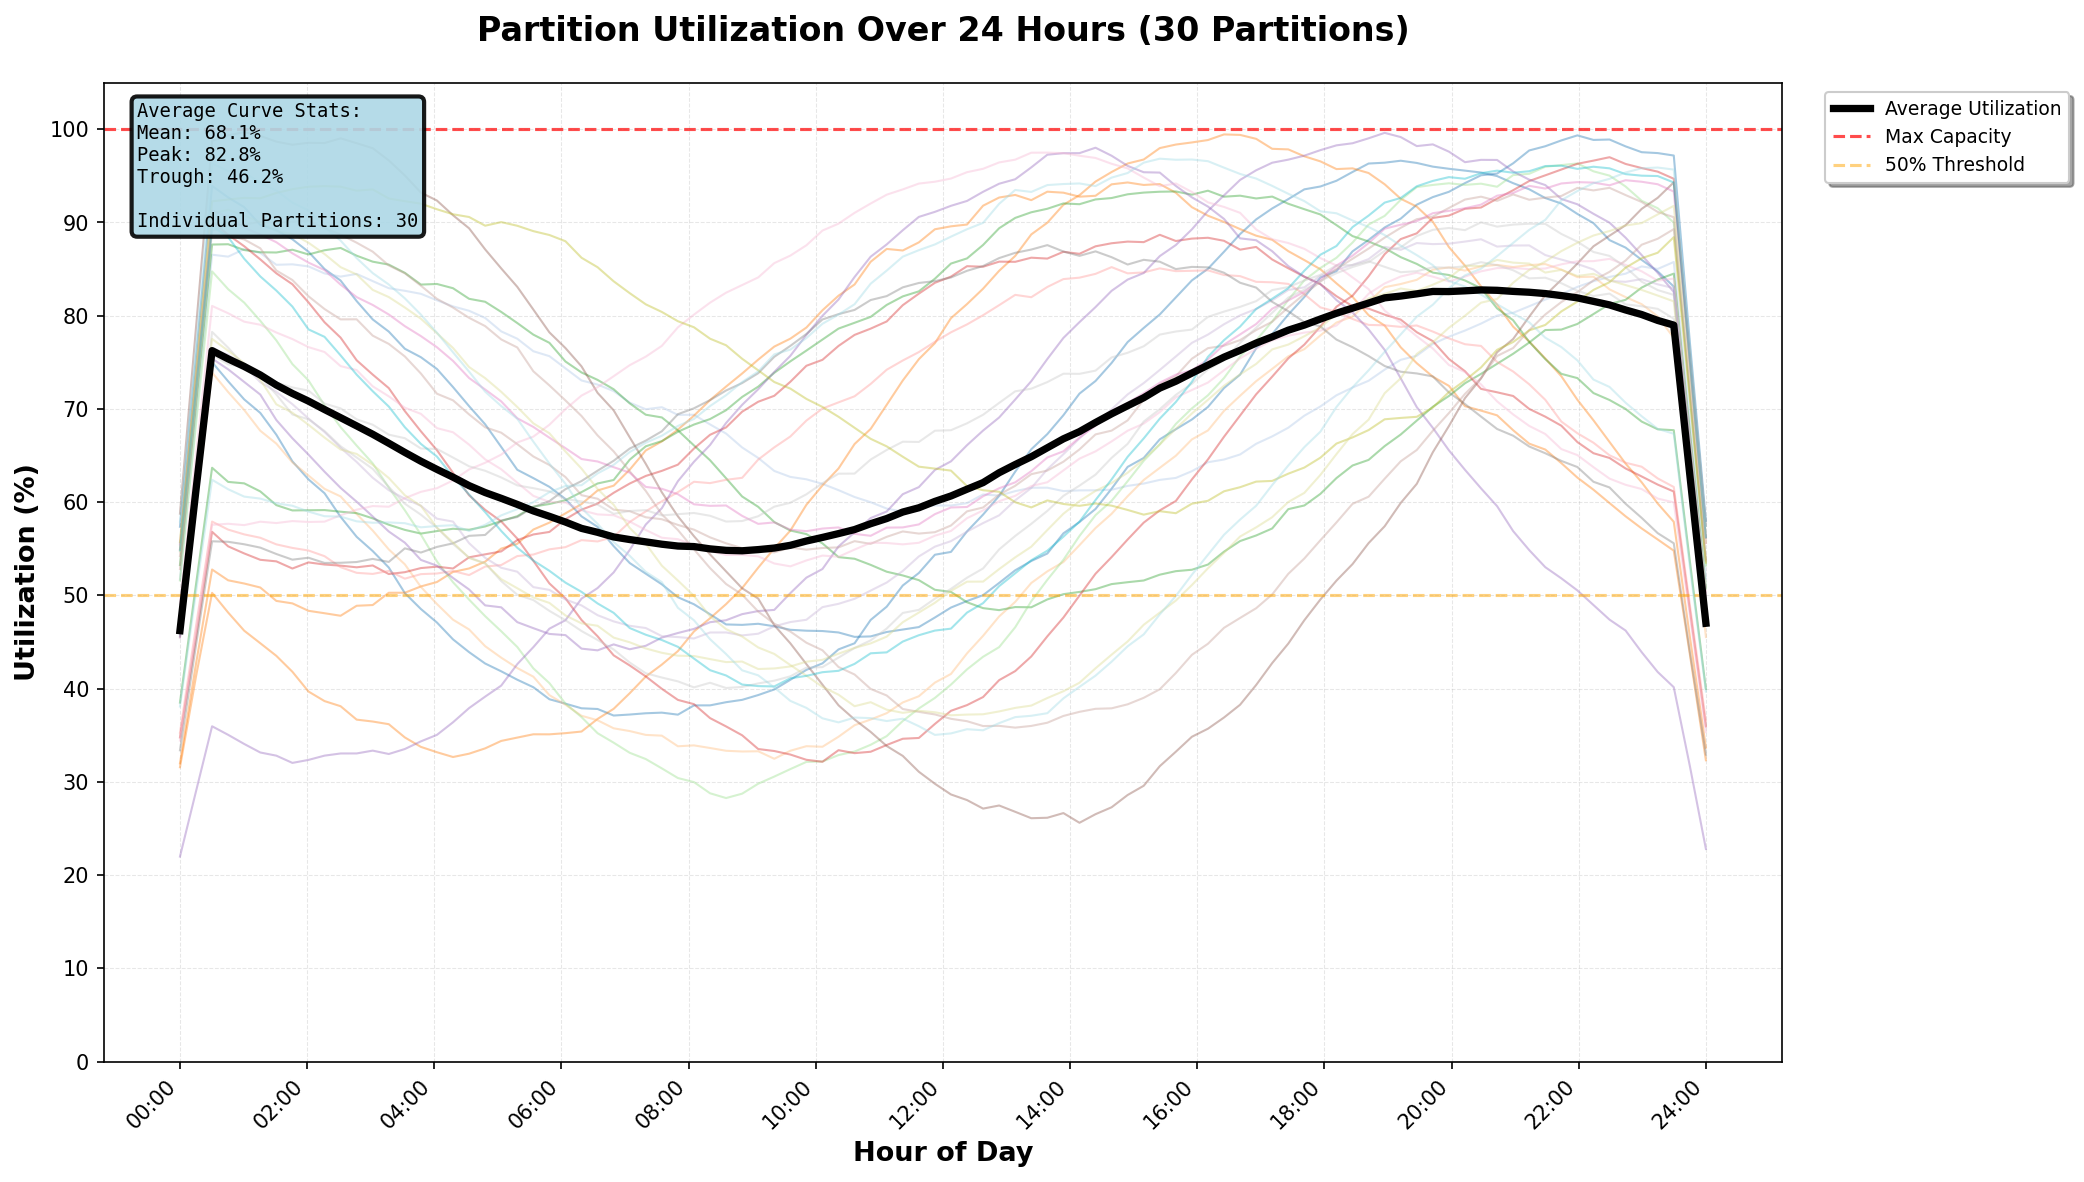
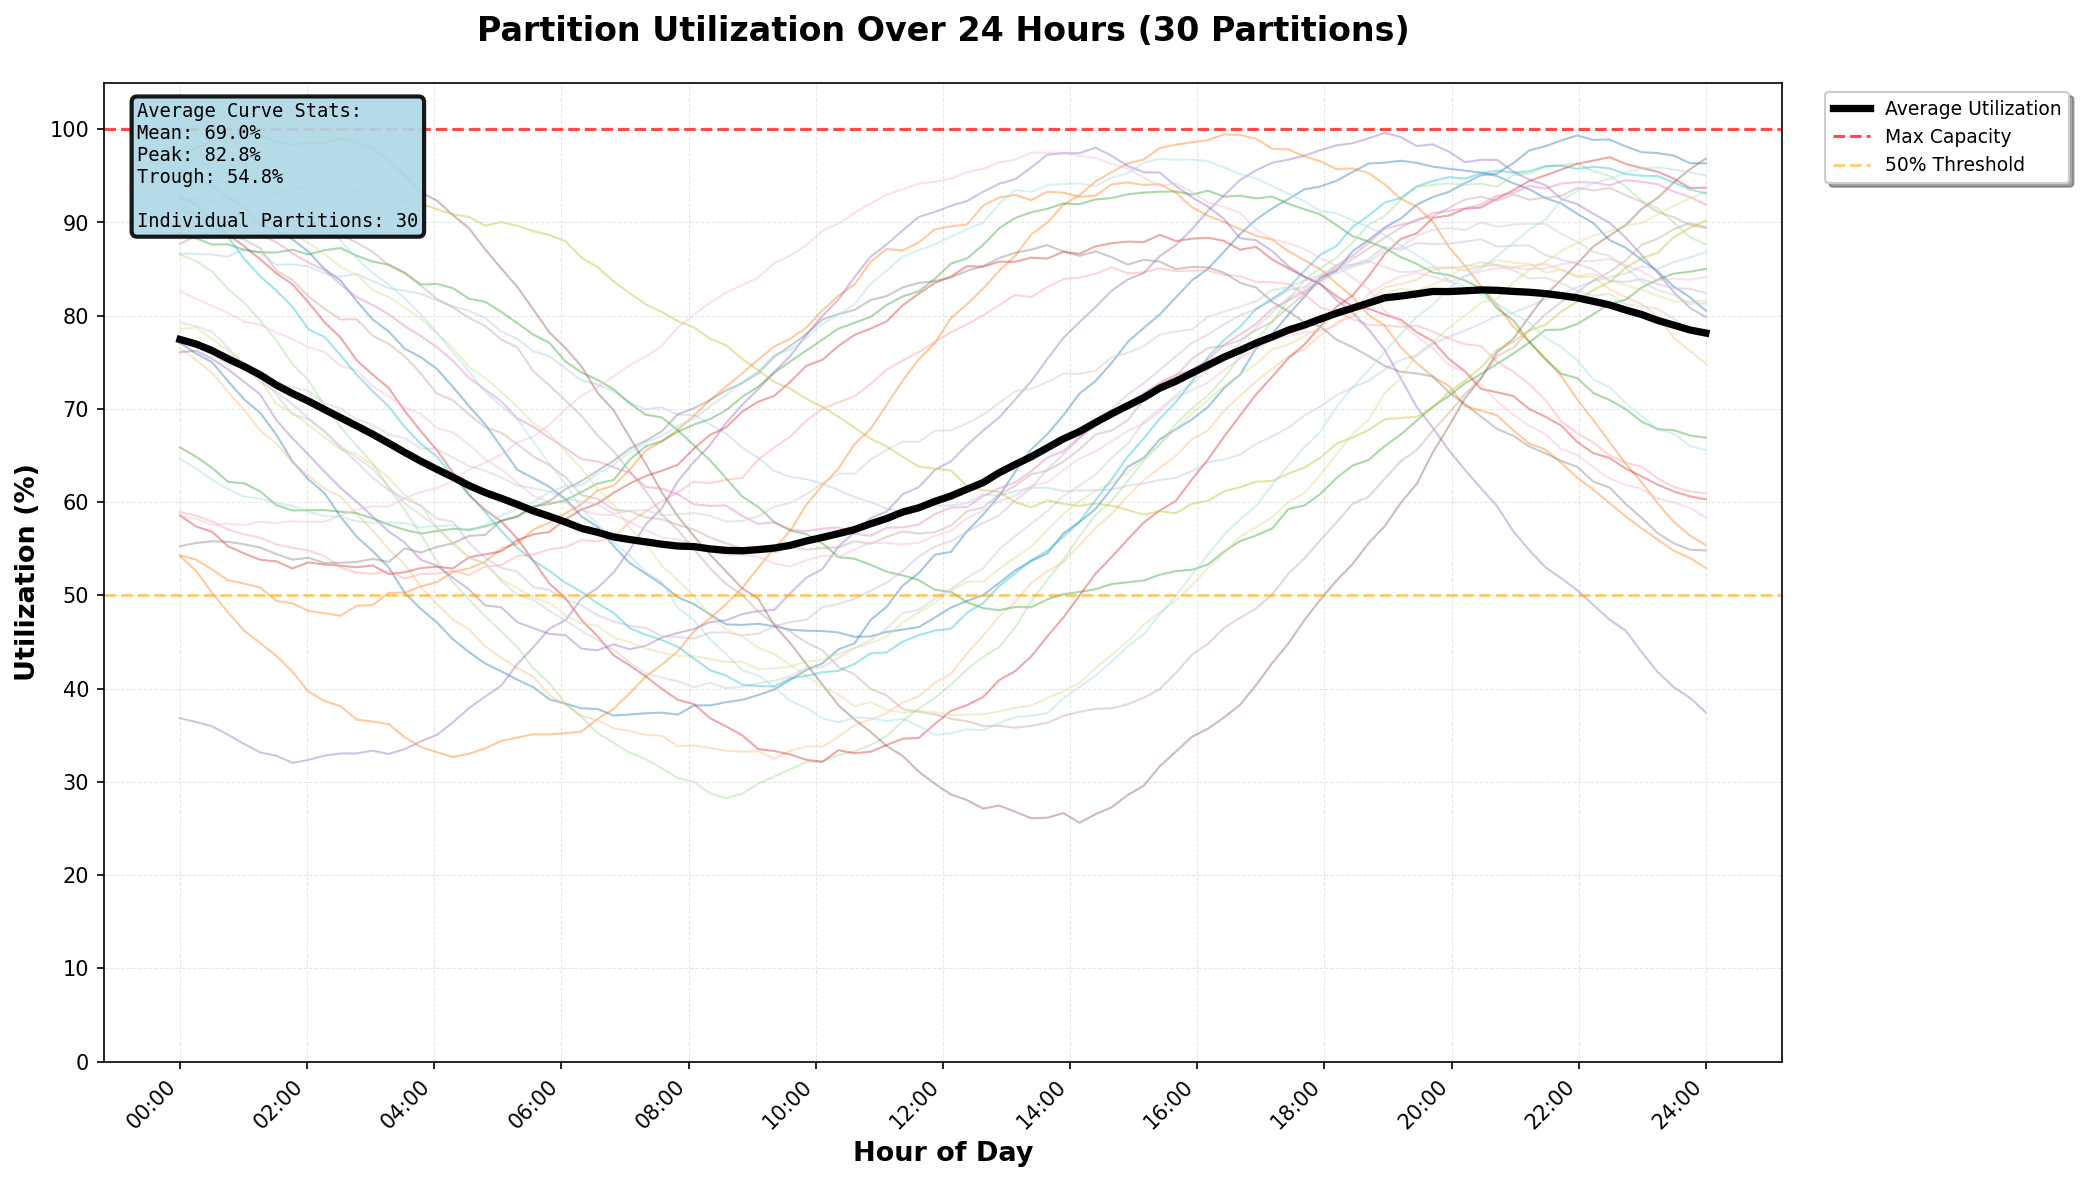
fix plot, update last post

Changed region(s): [[0.0624, 0.2132, 0.1248, 0.6396], [0.7798, 0.1523, 0.8421, 0.6091]]

diff --git a/_posts/2026-01-01-geo-partition-realtime.md b/_posts/2026-01-01-geo-partition-realtime.md
@@ -103,9 +103,7 @@ To make this concrete, we’ll shrink the problem down to a single metro area in
 * The “after” state has:
 
   * \~2× the total points \- and thus higher overall activity
-
-  * More hotspots of dense activity vs. the prior state  
-  * 
+  * More hotspots of dense activity vs. the prior state
 
 Each partition is capped at 2,500 points. The goal is to build *contiguous* geographic partitions that get as close to that limit as possible.
 
